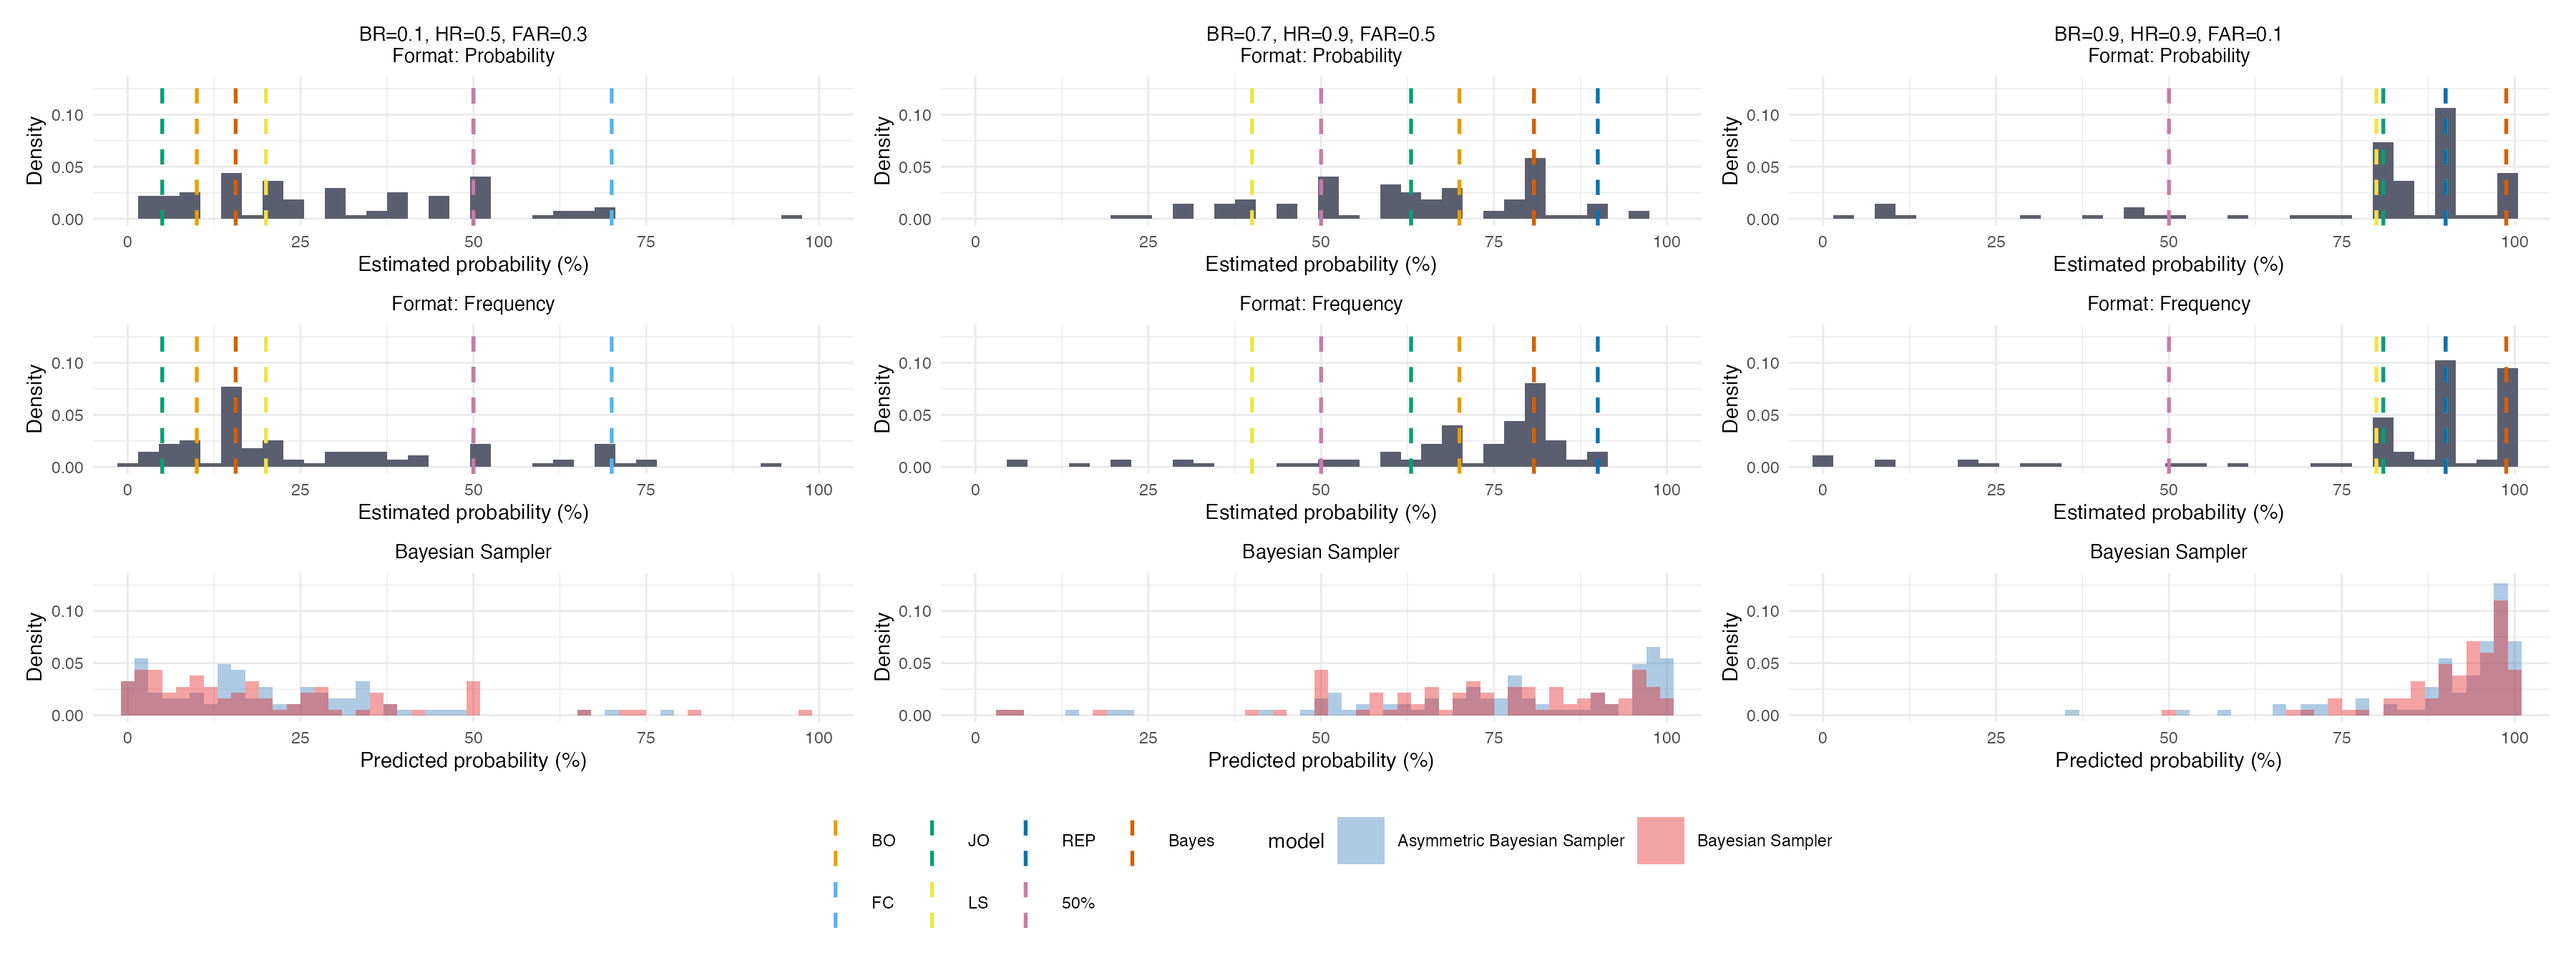
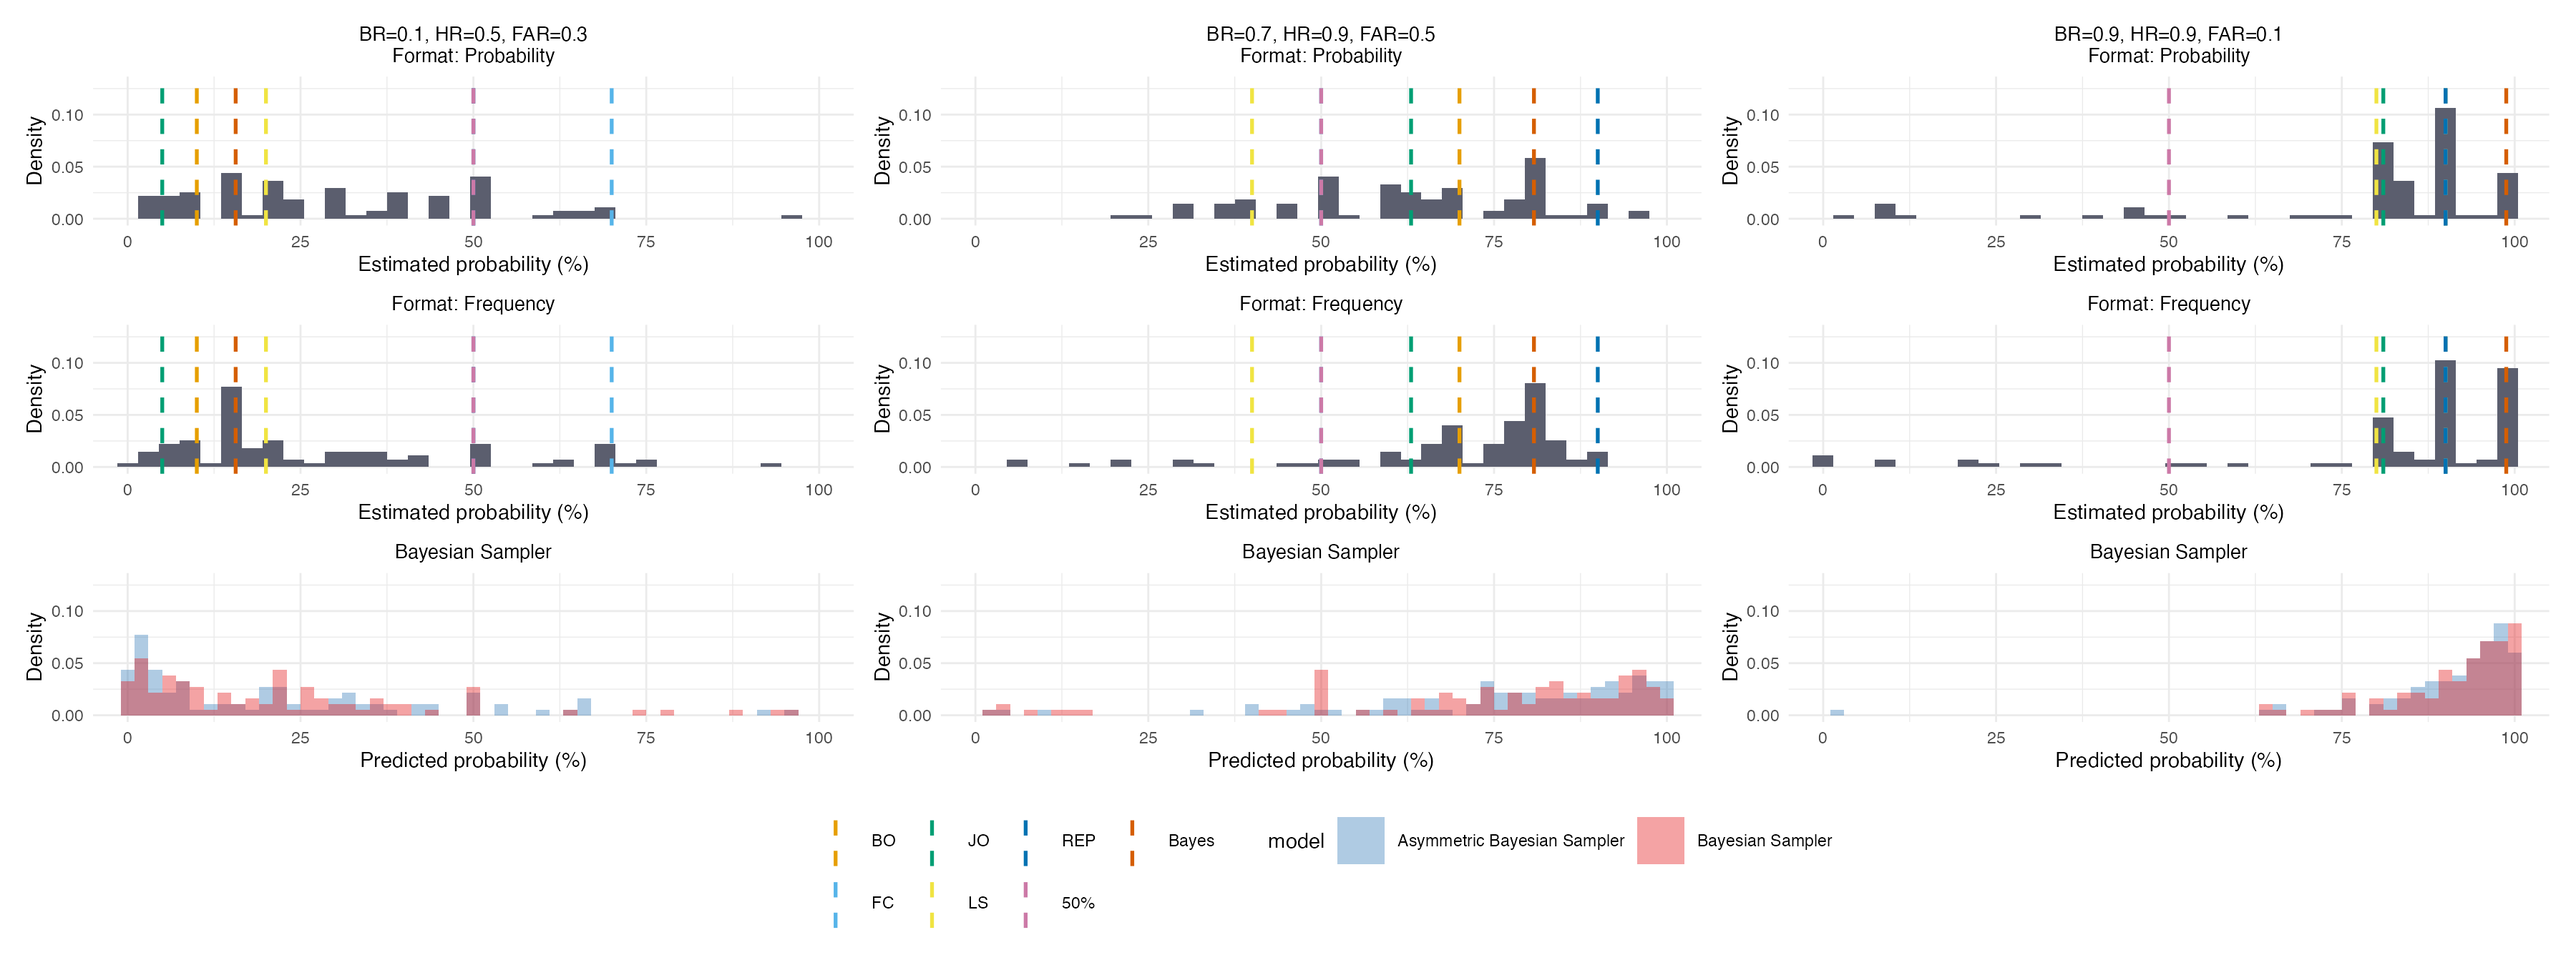
Update slope analysis and exact match tables; modularize code

diff --git a/README.md b/README.md
@@ -7,7 +7,7 @@ This repository contains R code and data for simulating, analyzing, and visualiz
 - `data/`: raw and processed datasets (e.g., df.xlsx)
 - `R/`: model definitions and evaluation metrics
 - `scripts/`: main analysis pipeline
-- `figs/`: generated figures
+- `fig/`: generated figures
 - `tests/`: unit tests with testthat
 - `.gitignore`: standard ignore rules
 - `belief-update.Rproj`: RStudio project file
@@ -16,11 +16,11 @@ This repository contains R code and data for simulating, analyzing, and visualiz
 ## Usage
 
 Run each script in `scripts/` in order:
-
+0. `00_plot.R`
 1. `01_simulate_parameters.R`
 2. `02_generate_predictions.R`
-3. `03_analysis_plots.R`
+3. `03_summary_stats.R`
+4. `04_abcrf_indiviudal_inference.R`
 
-## License
 
-MIT License. Attribution appreciated.
+
